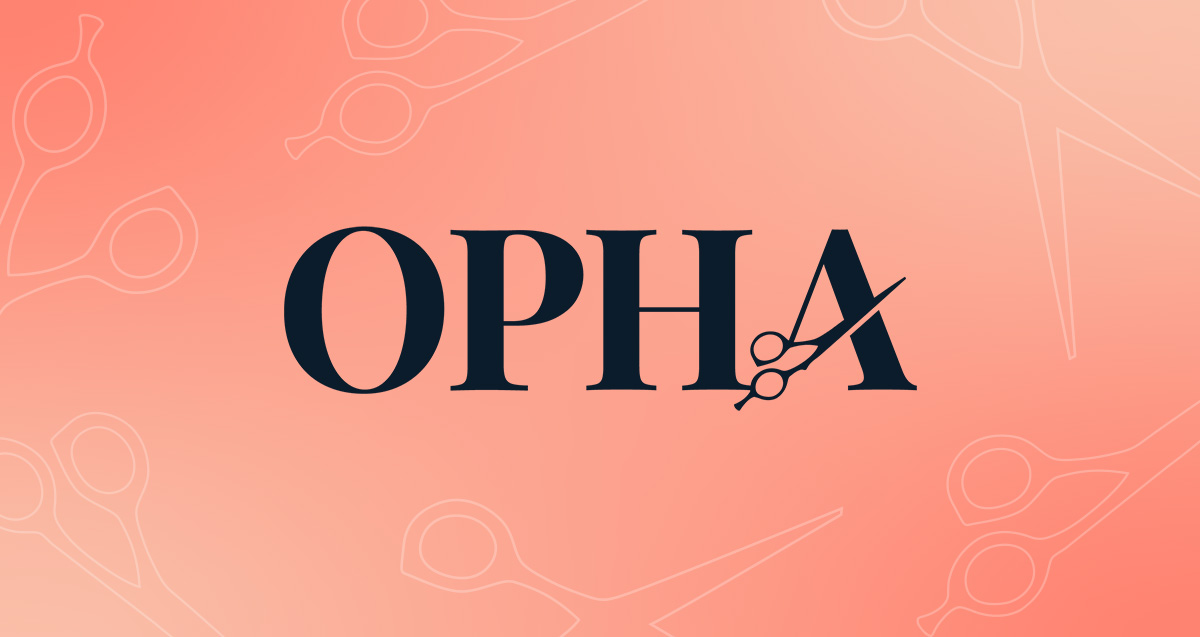
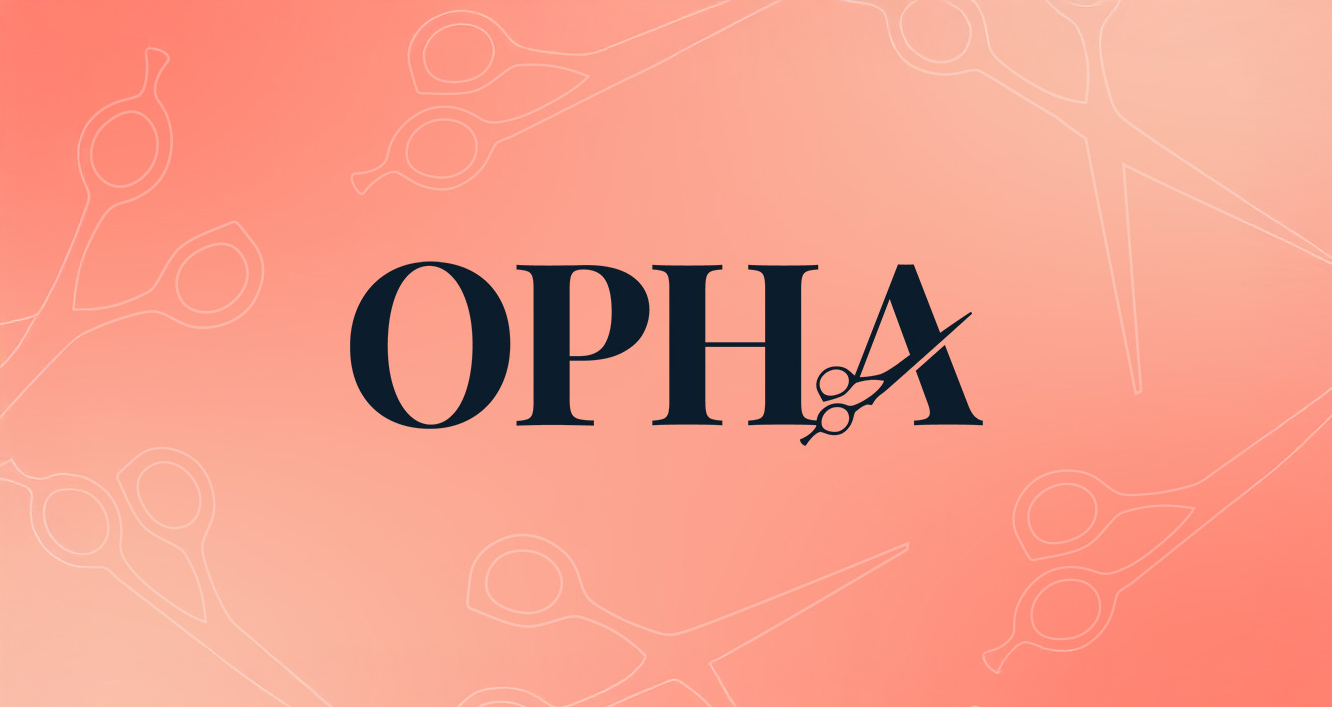
resized opha and fixed mobile headers

diff --git a/style.css b/style.css
@@ -433,18 +433,20 @@ h2 {
     }
 	
 	#projectpic2 {
-    background-image: url("images/lotus/mockup_lotus_guide.jpg");
+    background-image: url("images/lotus/Header-front-desk.jpg");
+				background-position: center;
 }
 
     #projectpic3 {
         background-image: url("images/cord/01-headerimg.png");
-		float: right;
+		background-position: left;
     }
+	
+	#projectpic1 {
+		background-position: left;
+	}
 
 
-    #projectpic2 {
-        background-image: url("images/cord/header-3.jpg");
-    }
 
 	
 	#Bio2{
